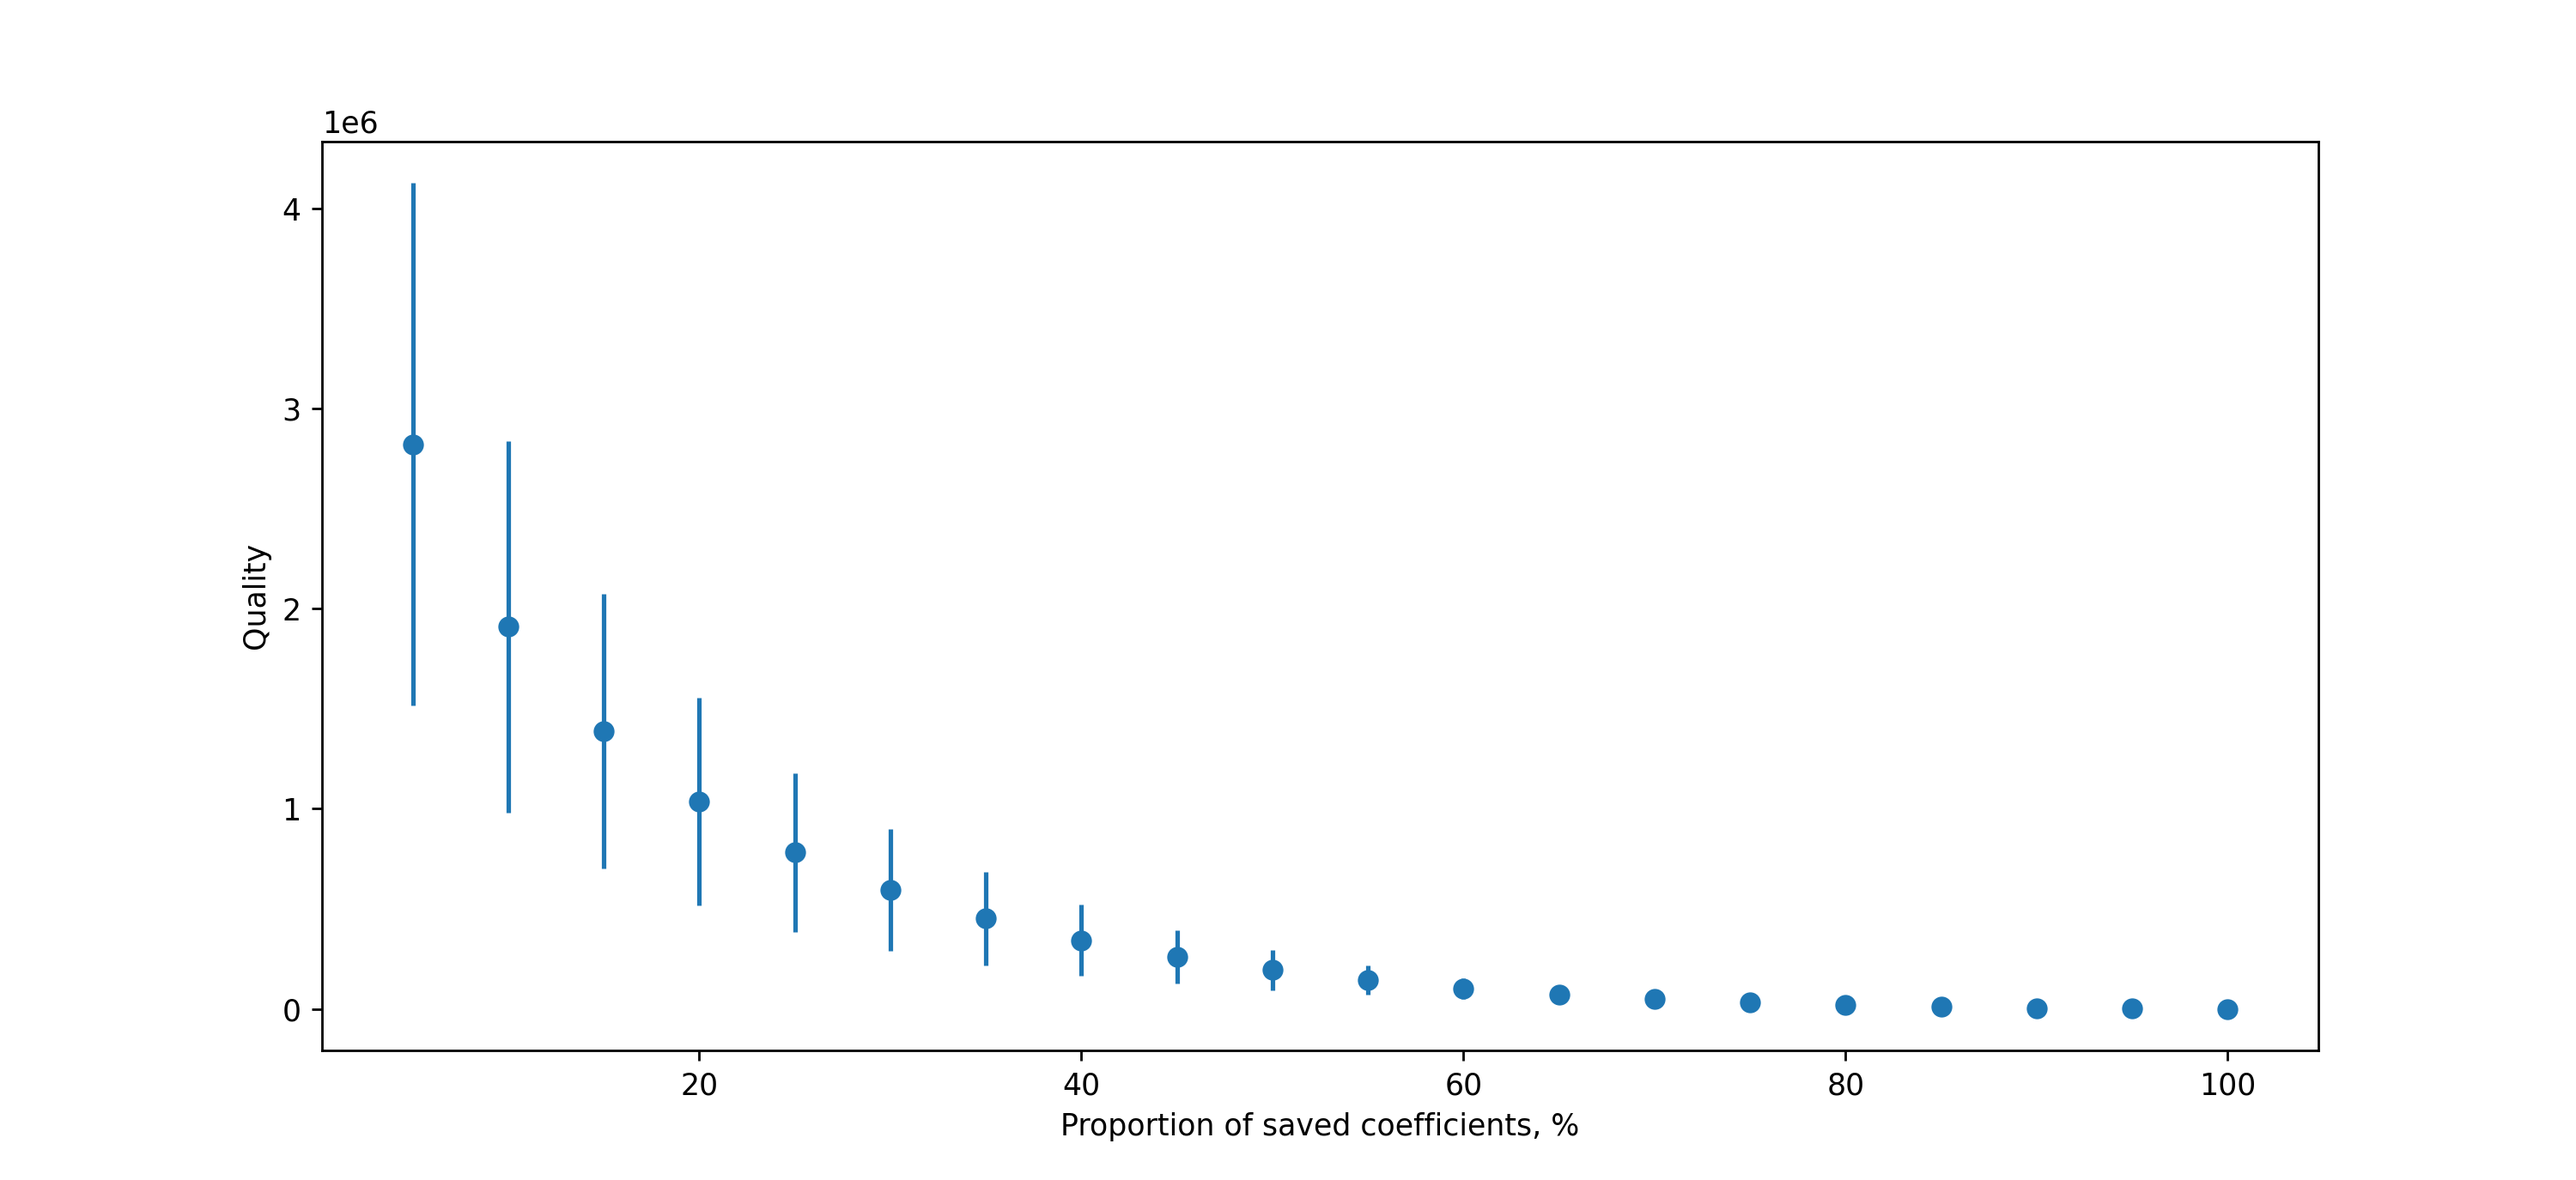
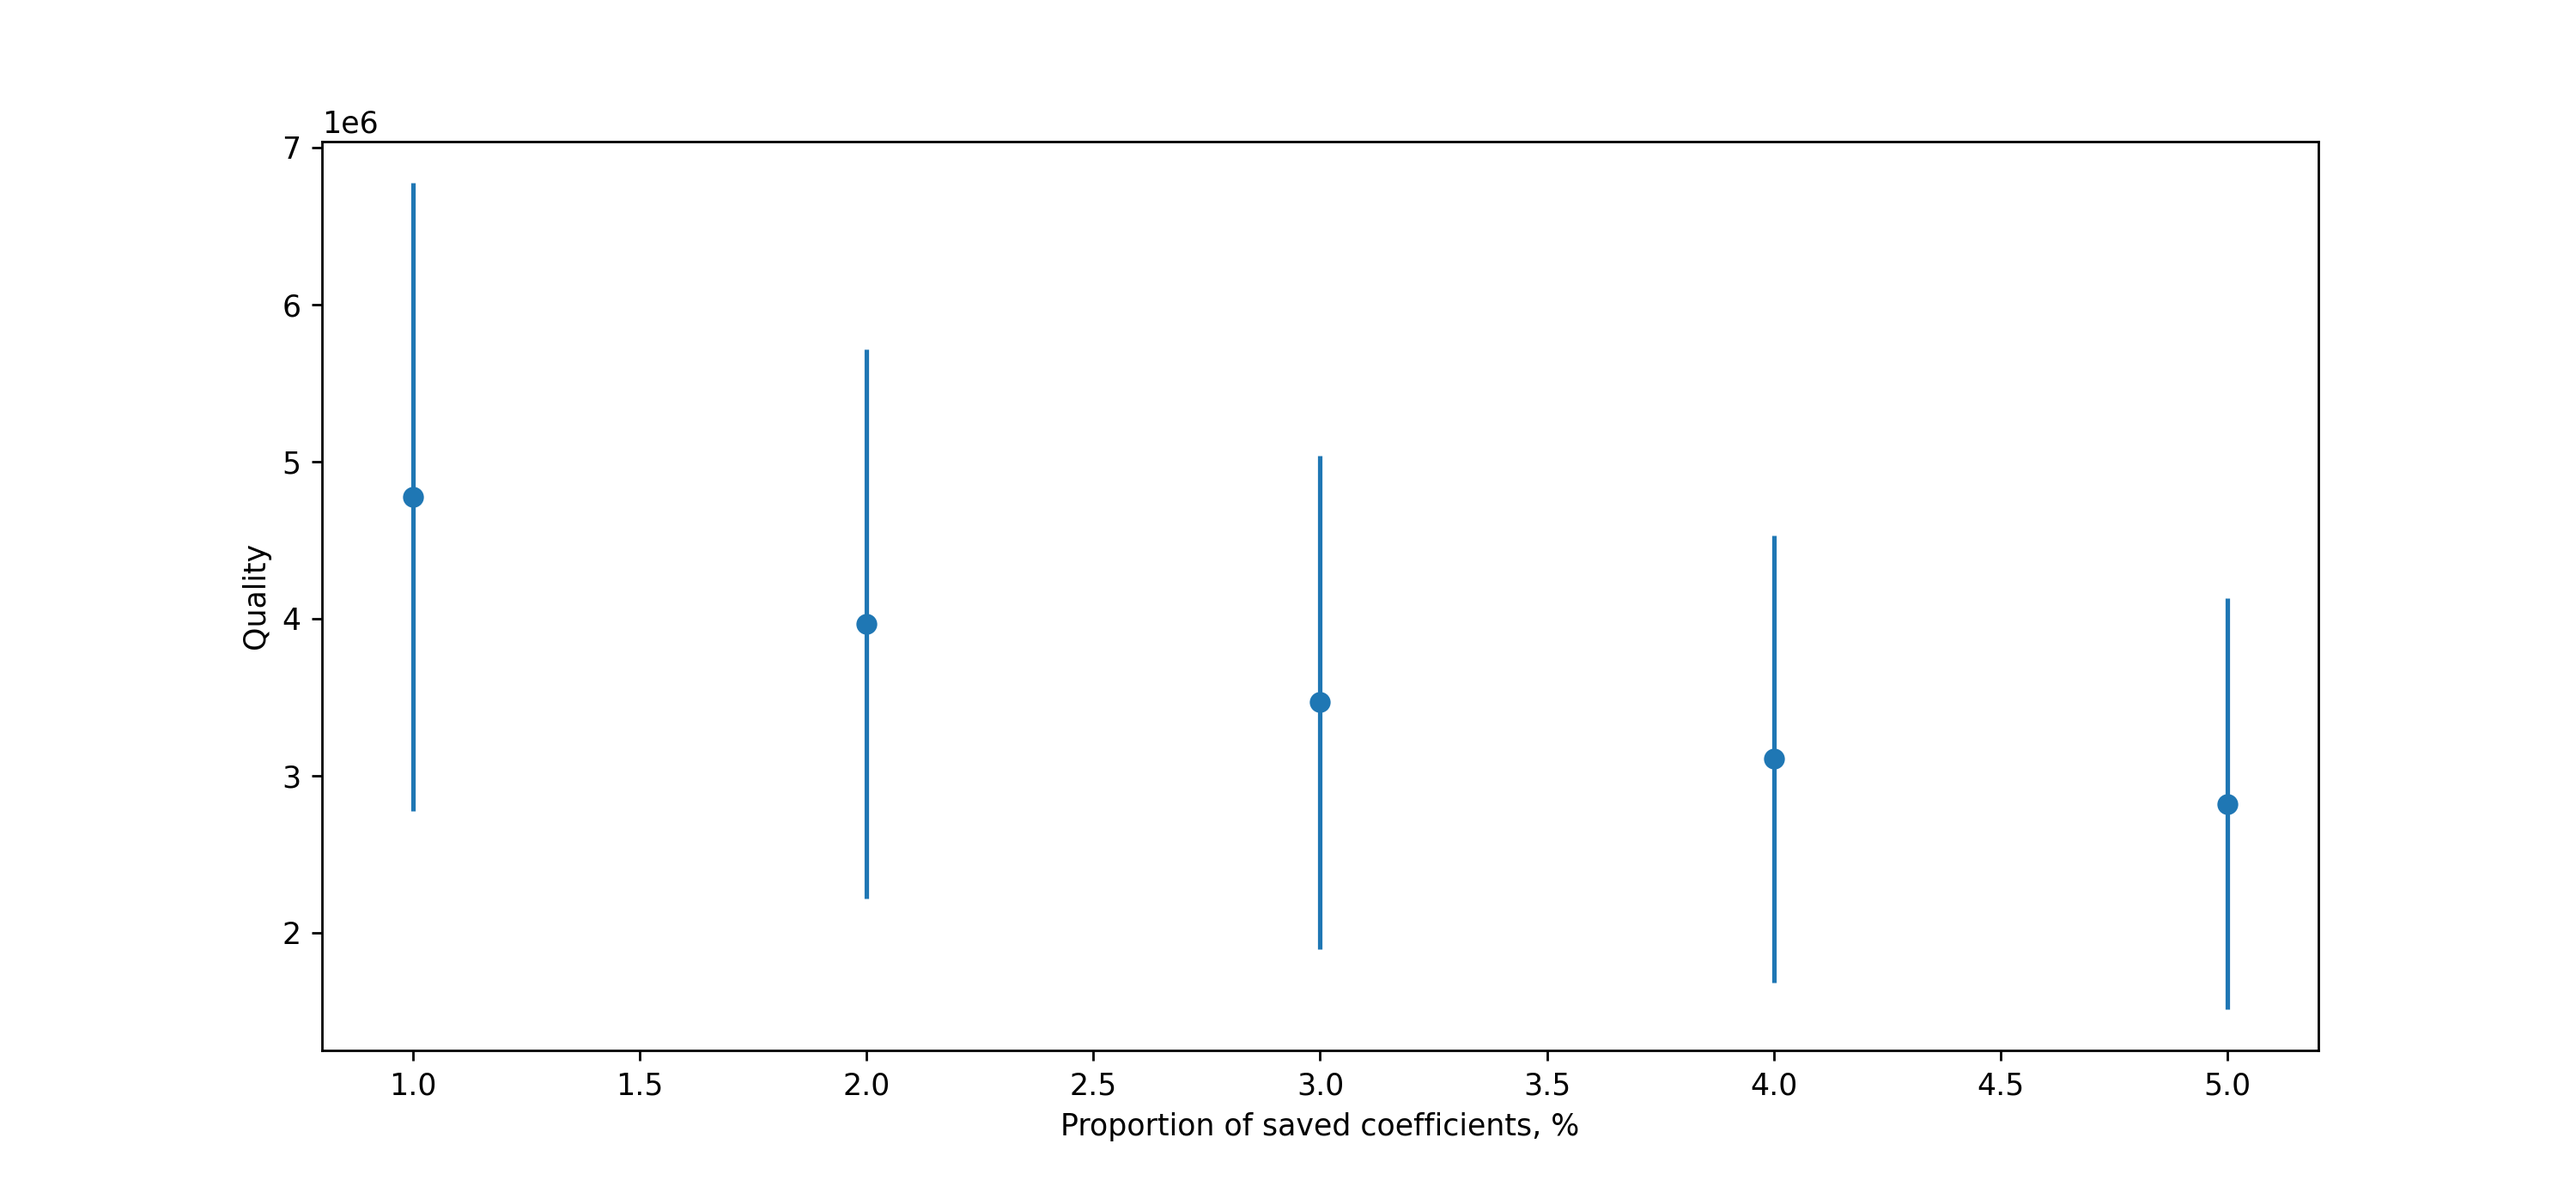
Add remove_noise.py

diff --git a/problem2/remove_noise.py b/problem2/remove_noise.py
@@ -2,6 +2,7 @@ import argparse
 import numpy
 from scipy import fft
 from astropy.io import fits
+from matplotlib import pyplot as plt
 
 parser = argparse.ArgumentParser()
 parser.add_argument("input", action="store", help="input file name")
@@ -11,7 +12,10 @@ img = fits_file[0].data
 ft_img = fft.fft2(img)
 fts_img = fft.fftshift(ft_img)
 
-# I don't know what to do
+d1 = (804, 881)
+d2 = (834, 911)
+fts_img[d1] = numpy.median(fts_img[d1[0] - 1:d1[0] + 1, d1[1] - 1:d1[1] + 1])
+fts_img[d2] = numpy.median(fts_img[d2[0] - 1:d2[0] + 1, d2[1] - 1:d2[1] + 1])
 
 ft_img = fft.ifftshift(fts_img)
 img = numpy.abs(fft.ifft2(fts_img))

diff --git a/problem1/img_compression.py b/problem1/img_compression.py
@@ -6,9 +6,9 @@ from scipy import fft
 from astropy.io import fits
 from matplotlib import pyplot as plt
 
-start = 5
-step = 5
-end = 100 + step
+start = 1
+step = 1
+end = 5 + step
 
 parser = argparse.ArgumentParser()
 parser.add_argument("input", action="store", help="input file name")
